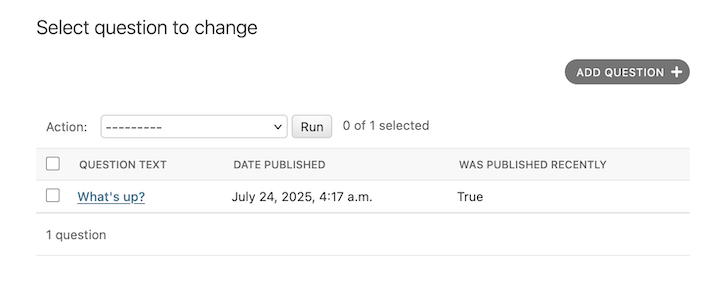
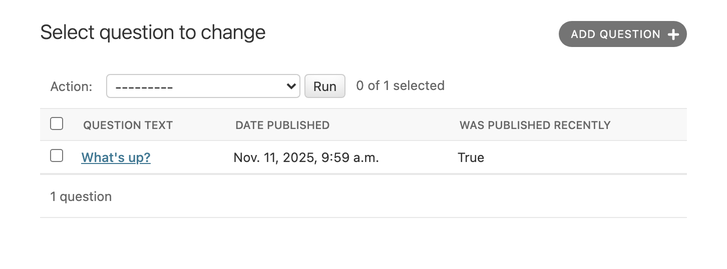
Fixed #36887 -- Improved admin changelist layout for object-tools button.

diff --git a/django/contrib/admin/templates/admin/base.html b/django/contrib/admin/templates/admin/base.html
@@ -98,11 +98,15 @@
         {% endblock messages %}
         <!-- Content -->
         <div id="content" class="{% block coltype %}colM{% endblock %}">
-          {% block pretitle %}{% endblock %}
-          {% block content_title %}{% if title %}<h1>{{ title }}</h1>{% endif %}{% endblock %}
-          {% block content_subtitle %}{% if subtitle %}<h2>{{ subtitle }}</h2>{% endif %}{% endblock %}
-          {% block content %}
+          <div class="titles-and-tools">
+            <div class="titles">
+              {% block pretitle %}{% endblock %}
+              {% block content_title %}{% if title %}<h1>{{ title }}</h1>{% endif %}{% endblock %}
+              {% block content_subtitle %}{% if subtitle %}<h2>{{ subtitle }}</h2>{% endif %}{% endblock %}
+            </div>
             {% block object-tools %}{% endblock %}
+          </div>
+          {% block content %}
             {{ content }}
           {% endblock %}
           {% block sidebar %}{% endblock %}

diff --git a/django/contrib/admin/templates/admin/change_list.html b/django/contrib/admin/templates/admin/change_list.html
@@ -39,15 +39,16 @@
 
 {% block coltype %}{% endblock %}
 
+{% block object-tools %}
+<ul class="object-tools">
+  {% block object-tools-items %}
+    {% change_list_object_tools %}
+  {% endblock %}
+</ul>
+{% endblock %}
+
 {% block content %}
   <div id="content-main">
-    {% block object-tools %}
-        <ul class="object-tools">
-          {% block object-tools-items %}
-            {% change_list_object_tools %}
-          {% endblock %}
-        </ul>
-    {% endblock %}
     {% if cl.formset and cl.formset.errors %}
         <p class="errornote">
         {% blocktranslate count counter=cl.formset.total_error_count %}Please correct the error below.{% plural %}Please correct the errors below.{% endblocktranslate %}

diff --git a/django/contrib/admin/templates/admin/change_form.html b/django/contrib/admin/templates/admin/change_form.html
@@ -24,7 +24,6 @@
 {% endblock %}
 {% endif %}
 
-{% block content %}<div id="content-main">
 {% block object-tools %}
 {% if change and not is_popup %}
   <ul class="object-tools">
@@ -34,6 +33,8 @@
   </ul>
 {% endif %}
 {% endblock %}
+
+{% block content %}<div id="content-main">
 <form {% if has_file_field %}enctype="multipart/form-data" {% endif %}{% if form_url %}action="{{ form_url }}" {% endif %}method="post" id="{{ opts.model_name }}_form" novalidate>{% csrf_token %}{% block form_top %}{% endblock %}
 <div>
 {% if is_popup %}<input type="hidden" name="{{ is_popup_var }}" value="1">{% endif %}

diff --git a/django/contrib/admin/static/admin/css/base.css b/django/contrib/admin/static/admin/css/base.css
@@ -808,18 +808,25 @@ a.deletelink:focus, a.deletelink:hover {
     text-decoration: none;
 }
 
+/* TITLES */
+
+.titles-and-tools {
+    display: flex;
+}
+
+.titles {
+    flex-grow: 1;
+}
+
 /* OBJECT TOOLS */
 
 .object-tools {
     padding: 0;
-    overflow: hidden;
-    text-align: right;
-    margin: 0 0 15px;
+    margin: 0;
 }
 
 .object-tools li {
     display: inline-block;
-    height: auto;
 }
 
 .object-tools li + li {

diff --git a/django/contrib/admin/static/admin/css/responsive.css b/django/contrib/admin/static/admin/css/responsive.css
@@ -439,11 +439,15 @@ input[type="submit"], button {
         margin-top: 30px;
     }
 
-    .object-tools {
-        text-align: left;
+    /* Forms */
+
+    .titles-and-tools {
+        flex-direction: column;
     }
 
-    /* Forms */
+    .object-tools {
+        margin-bottom: 10px;
+    }
 
     .form-row {
         padding: 15px 0;

diff --git a/django/contrib/admin/static/admin/css/responsive_rtl.css b/django/contrib/admin/static/admin/css/responsive_rtl.css
@@ -53,10 +53,6 @@
         margin-right: 0;
     }
 
-    [dir="rtl"] .object-tools {
-        text-align: right;
-    }
-
     [dir="rtl"] .aligned .vCheckboxLabel {
         padding: 1px 5px 0 0;
     }

diff --git a/django/contrib/admin/static/admin/css/rtl.css b/django/contrib/admin/static/admin/css/rtl.css
@@ -25,10 +25,6 @@ th {
     background-position: 100% 1px;
 }
 
-.object-tools {
-    text-align: left;
-}
-
 .object-tools li + li {
     margin-right: 15px;
     margin-left: 0;
